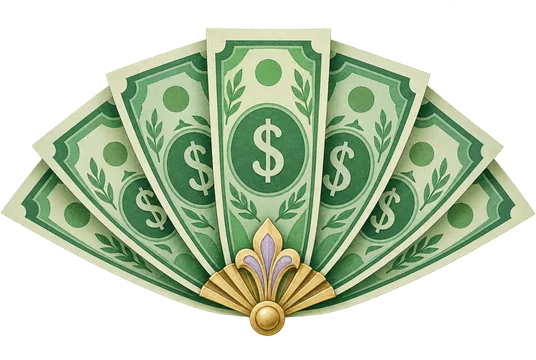
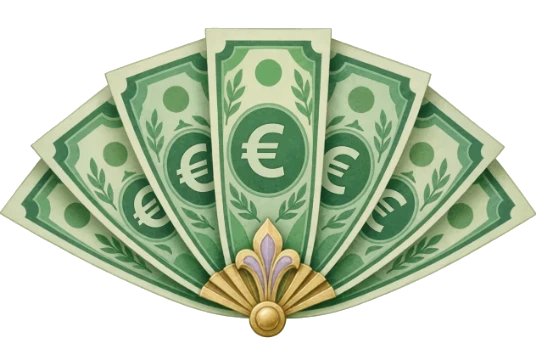
Accueil et Congés : priorité à Mise en route sur le CET et illustrations sombres / Mécénats en euros
- Accueil : tant que Mise en route est ouverte, le rappel CET se replie en bandeau compact (.cet-ticker) et se redéplie automatiquement une fois la mise en route terminée ou écartée.
- Congés (mode sombre) : retrait du fond beige #f3ede6 sur .leave-tool-illustration afin que les trois illustrations détourées se fondent dans les tuiles sombres.
- Mécénats : remplacement des billets en dollars par des billets en euros sur leave-tool-mecenat.webp (détourage transparent, 41,2 -> 32,8 Ko).
- Tests unitaires (1 402 réussis), E2E (ordinateur, mobile, iPhone), build et budgets JS/CSS validés.

diff --git a/e2e/app.spec.ts b/e2e/app.spec.ts
@@ -8086,6 +8086,8 @@ test("en mode sombre, les mois qui comptent pour le fractionnement se détachent
   // Avant, le fond des mois qui comptent se confondait avec la carte (1,1).
   expect(contrasts.fill).toBeGreaterThan(1.8);
   expect(contrasts.text).toBeGreaterThan(4.5);
+  // Les illustrations détourées des outils Congés ne gardent plus d'encadré beige clair en sombre.
+  expect(await page.locator(".leave-tool-illustration").evaluateAll((frames) => frames.every((frame) => getComputedStyle(frame).backgroundColor === "rgba(0, 0, 0, 0)"))).toBe(true);
 });
 
 test("en mode sombre, la frise, les dimanches et la date des notes gardent leur couleur", async ({ page }, testInfo) => {
@@ -8419,8 +8421,15 @@ test("un férié travaillé propose prime seule, prime + récup ou un échange a
 /** Le profil d'un agent qui a posé 20 CA en 2026 et suit son CET (solde de
  *  5 jours), ne l'a pas encore renseigné (`withAccount` à faux), ou a répondu
  *  « Je n'ai pas de CET » ("declined"). */
+function dismissHomeSetup(page: Page) {
+  return page.addInitScript(() => {
+    localStorage.setItem("planning:setup-dismissed-v1:demo", JSON.stringify(["planning-group", "pay-profile", "holiday-choice", "payslip-upload"]));
+  });
+}
+
 function seedCetProfile(page: Page, withAccount: boolean | "declined" = true) {
   return page.addInitScript((account) => {
+    localStorage.setItem("planning:setup-dismissed-v1:demo", JSON.stringify(["planning-group", "pay-profile", "holiday-choice", "payslip-upload"]));
     localStorage.setItem("planning:e2e-pay-profile", JSON.stringify({
       fullName: "",
       group: "2",
@@ -8433,6 +8442,7 @@ function seedCetProfile(page: Page, withAccount: boolean | "declined" = true) {
 
 test("l’application restée ouverte depuis la veille montre le rappel du CET dès minuit le 15 novembre", async ({ page }) => {
   await page.clock.install({ time: new Date("2026-11-14T23:58:00") });
+  await dismissHomeSetup(page);
   await prepareDemo(page);
   await expect(page.getByRole("heading", { name: "Aujourd’hui" })).toBeVisible();
   const reminder = page.getByRole("complementary", { name: "Avez-vous un CET ?" });
@@ -8558,6 +8568,7 @@ test("« Oui » touché juste après un rendu de l’appli donne quand même la 
 
 test("en fin d’année, un CET non renseigné reste rappelé jusqu’à « Non », qui le fait taire pour l’année", async ({ page }) => {
   await page.clock.setFixedTime(new Date("2026-12-27T10:00:00"));
+  await dismissHomeSetup(page);
   await prepareDemo(page);
   const reminder = page.getByRole("complementary", { name: "Avez-vous un CET ?" });
   await expect(reminder.locator(".step-label.urgent")).toHaveText("CET · plus que 5 jours");
@@ -8623,6 +8634,30 @@ test("sans CET, l’accueil repose la question chaque année et mène à la dema
   await page.clock.setFixedTime(new Date("2027-11-20T10:00:00"));
   await page.reload();
   await expect(reminder.getByRole("button", { name: "Demander l’ouverture" })).toBeVisible();
+});
+
+test("quand la mise en route est ouverte sur l’accueil, elle reste déployée et le rappel du CET se replie en bandeau", async ({ page }) => {
+  await page.clock.setFixedTime(new Date("2026-11-20T10:00:00"));
+  await prepareDemo(page);
+  const setup = page.locator(".home-setup-checklist");
+  await expect(setup.getByRole("heading", { name: "Mise en route" })).toBeVisible();
+  const ribbon = page.locator(".cet-ticker");
+  const reminder = page.getByRole("complementary", { name: "Avez-vous un CET ?" });
+  await expect(ribbon).toBeVisible();
+  await expect(reminder).toHaveCount(0);
+  // Toucher le bandeau déplie la carte du CET pour cette visite.
+  await ribbon.click();
+  await expect(reminder).toBeVisible();
+  await expect(reminder.getByRole("button", { name: "Oui", exact: true })).toBeFocused();
+  // Une fois la mise en route écartée, le rappel du CET se déploie tout seul.
+  await page.reload();
+  await expect(ribbon).toBeVisible();
+  for (let i = 0; i < 4 && (await setup.count()) > 0; i++) {
+    await setup.locator(".home-setup-skip").click();
+  }
+  await expect(setup).toHaveCount(0);
+  await expect(reminder).toBeVisible();
+  await expect(ribbon).toHaveCount(0);
 });
 
 test("l’accueil annonce une exposition la veille de son ouverture, puis une semaine avant sa fin", async ({ page }) => {

diff --git a/src/CetWindowReminder.tsx b/src/CetWindowReminder.tsx
@@ -131,6 +131,8 @@ type Props = {
   /** Enregistre le compte d'après le solde du relevé RH ; vrai une fois fait. */
   onSaveBalance: (initialBalance: number, legacyCap70: boolean) => Promise<boolean>;
   onNoCet: () => void;
+  /** Replié en bandeau tant que « Mise en route » reste ouverte sur l'accueil. */
+  defer?: boolean;
 };
 
 const STEPS = ["Votre CET", "Son solde", "Demande"] as const;
@@ -160,7 +162,7 @@ function CetJourney({ step }: { step: number }) {
  * solde du relevé RH sans quitter l'accueil ; ensuite, ce qui peut être versé,
  * ou les CA qui manquent. « Plus tard », en haut, replie la carte en bandeau.
  */
-export function CetWindowReminder({ todayKey, account, periods, group, manualAdjustments, onPrepare, onOpenCet, onRequestOpening, onRequestLeave, onSaveBalance, onNoCet }: Props) {
+export function CetWindowReminder({ todayKey, account, periods, group, manualAdjustments, onPrepare, onOpenCet, onRequestOpening, onRequestLeave, onSaveBalance, onNoCet, defer = false }: Props) {
   const [foldedOn, setFoldedOn] = useState(readFolded);
   // Le bandeau touché redéplie la carte pour la visite, sans oublier le repli.
   const [unfolded, setUnfolded] = useState(false);
@@ -185,7 +187,7 @@ export function CetWindowReminder({ todayKey, account, periods, group, manualAdj
   const ribbonRef = useRef<HTMLButtonElement>(null);
   const goRef = useRef<HTMLButtonElement>(null);
   const balanceRef = useRef<HTMLInputElement>(null);
-  const folded = !unfolded && cetReminderFolded(foldedOn, todayKey);
+  const folded = !unfolded && (defer || cetReminderFolded(foldedOn, todayKey));
   useEffect(() => {
     if (!focusNext) return;
     const target = focusNext === "ribbon" ? ribbonRef.current : focusNext === "balance" ? balanceRef.current : goRef.current;

diff --git a/src/App.tsx b/src/App.tsx
@@ -537,6 +537,9 @@ export default function Home() {
   // que rien n'a été confirmé, ce ne sont que des valeurs de repli.
   const missingCalculationProfile = !formProfile?.status || !formProfile?.workQuota;
   const missingHolidayChoices = currentYearPay ? allowances?.holidayPending ?? 0 : 0;
+  // Quand « Mise en route » est ouverte sur l'accueil, le rappel du CET se
+  // replie en bandeau pour lui laisser la place.
+  const [setupOpen, setSetupOpen] = useState(false);
 
   const showCalendarWorkspace =
     homeSection === "home" ||
@@ -942,6 +945,7 @@ export default function Home() {
         showSuccess={confirm}
         help={{ openPlanningPdf: () => setPdfDialogOpen(true), openBlankForm, requestLeave: () => { openRequestChooser("planning"); requestFromHelp.current = true; }, openExchange: () => openWorkExchange() }}
         actions={{ navigateFromShell, checkForAppUpdate, disconnect, saveCetAccount, saveExpoNoticesSeen }}
+        setupOpen={setupOpen}
       />
 
       {feedbackMessaging.resolutionNotice ? (
@@ -1005,6 +1009,7 @@ export default function Home() {
           ownNoteAuthorLabel={ownNoteAuthorLabel}
           overview={{ ...workedDaysOverview, totalLeaveRemaining, leaveYear: absenceYear, upcoming, hasAnyNote, noteSearchResults }}
           setup={{ missingCalculationProfile, missingHolidayChoices, missingPayValues }}
+          onSetupChange={setSetupOpen}
           shell={appShellUi}
           pay={payUi}
           actions={{ setView, openDay, beginQuickNote, deleteMultiplePlanningDates, deleteAgnesNote }}

diff --git a/src/HomeDashboard.tsx b/src/HomeDashboard.tsx
@@ -1,4 +1,4 @@
-import { useState, type CSSProperties, type Dispatch, type ReactNode, type SetStateAction } from "react";
+import { useEffect, useState, type CSSProperties, type Dispatch, type ReactNode, type SetStateAction } from "react";
 import { noteLines, type NoteListItem } from "./appModel";
 import { NotesPanelContent } from "./PlanningView";
 import "./sharedNotes.css";
@@ -81,6 +81,7 @@ type HomeDashboardProps = {
   nextExtraWork: { kind: "mecenat" | "overtime"; date: string; start: string; end: string } | null;
   setupItems: HomeSetupItem[];
   setupDismissKey: string;
+  onSetupChange?: (open: boolean) => void;
   hasAnyNote: boolean;
   noteQuery: string;
   onNoteQueryChange: Dispatch<SetStateAction<string>>;
@@ -103,6 +104,7 @@ export function HomeDashboard({
   nextExtraWork,
   setupItems,
   setupDismissKey,
+  onSetupChange,
   hasAnyNote,
   noteQuery,
   onNoteQueryChange,
@@ -141,6 +143,7 @@ export function HomeDashboard({
   const skippedSetup = (item: HomeSetupItem) => !item.done && dismissedSetupItems.includes(item.id);
   const setupHandled = setupItems.filter((item) => item.done || skippedSetup(item)).length;
   const setupVisible = setupHandled < setupItems.length;
+  useEffect(() => { onSetupChange?.(setupVisible); }, [setupVisible, onSetupChange]);
   const [selectedSetup, setSelectedSetup] = useState<string | null>(null);
   const setupCurrent = setupItems.find((item) => item.id === selectedSetup && !item.done)
     ?? setupItems.find((item) => !item.done && !skippedSetup(item));

diff --git a/src/AppShellChrome.tsx b/src/AppShellChrome.tsx
@@ -80,6 +80,8 @@ type Props = {
     & Pick<ReturnType<typeof useShellEffects>, "checkForAppUpdate">
     & Pick<ReturnType<typeof useAuthenticationActions>, "disconnect">
     & Pick<ReturnType<typeof useProfileAdjustmentActions>, "saveCetAccount" | "saveExpoNoticesSeen">;
+  /** Vrai tant que la carte « Mise en route » reste ouverte sur l'accueil. */
+  setupOpen?: boolean;
 };
 
 /**
@@ -90,7 +92,7 @@ type Props = {
  */
 export function AppShellChrome({
   now, group, demoMode, userEmail, isProgramAdmin, actualProgramAdmin, programAdminKnown,
-  admin, installation, shell, pay, calendar, allowanceValues, feedbackMessaging, notify, showSuccess, help, actions,
+  admin, installation, shell, pay, calendar, allowanceValues, feedbackMessaging, notify, showSuccess, help, actions, setupOpen = false,
 }: Props) {
   const { guestPreview, setGuestPreview, adminToolsOpen, setAdminToolsOpen, setAdminRevision } = admin;
   const { enabled: installationEnabled, installPrompt, installApp } = installation;
@@ -352,6 +354,7 @@ export function AppShellChrome({
         periods={periods}
         group={group}
         manualAdjustments={formProfile?.manualAdjustments}
+        defer={setupOpen}
         onPrepare={() => openCet("cet-funding")}
         onOpenCet={() => openCet("cet")}
         onRequestOpening={() => openCet("cet-opening")}

diff --git a/src/HomeSectionScreen.tsx b/src/HomeSectionScreen.tsx
@@ -42,6 +42,7 @@ type Props = {
     missingHolidayChoices: number;
     missingPayValues: boolean;
   };
+  onSetupChange?: (open: boolean) => void;
   shell: Pick<
     ReturnType<typeof useAppShellUiState>,
     "noteQuery" | "setNoteQuery" | "setHomeSection" | "setGroupChooserOpen"
@@ -63,7 +64,7 @@ type Props = {
  */
 export function HomeSectionScreen({
   now, group, demoMode, userEmail, isProgramAdmin, formProfile, entries, ownNoteAuthorLabel,
-  overview, setup, shell, pay, actions,
+  overview, setup, onSetupChange, shell, pay, actions,
 }: Props) {
   const { setHomeSection, setGroupChooserOpen } = shell;
   const { setPayScreen } = pay;
@@ -80,6 +81,7 @@ export function HomeSectionScreen({
           leaveYear={overview.leaveYear}
           nextExtraWork={overview.nextExtraWork}
           setupDismissKey={`planning:setup-dismissed-v1:${demoMode ? "demo" : userEmail.trim().toLowerCase()}`}
+          onSetupChange={onSetupChange}
           setupItems={[
             {
               id: "planning-group",

diff --git a/src/CetWindowReminder.test.tsx b/src/CetWindowReminder.test.tsx
@@ -151,5 +151,17 @@ describe("le rappel de l'alimentation du CET sur l'accueil", () => {
       vi.stubGlobal("localStorage", { getItem: () => "2026-11-18", setItem: vi.fn() });
       expect(render("2026-12-27", tracked())).toContain("Vous pouvez verser jusqu’à 20 jours</h2>");
     });
+
+    it("se replie aussi en bandeau tant que « Mise en route » est ouverte sur l'accueil", () => {
+      const html = renderToStaticMarkup(
+        <CetWindowReminder todayKey="2026-11-20" account={undefined} periods={[]} group={2} manualAdjustments={used(0)} defer {...handlers} />,
+      );
+      expect(html).not.toContain("cet-window-reminder");
+      expect(html).toContain('class="cet-ticker"');
+      const urgent = renderToStaticMarkup(
+        <CetWindowReminder todayKey="2026-12-27" account={tracked()} periods={[]} group={2} manualAdjustments={used(20)} defer {...handlers} />,
+      );
+      expect(urgent).toContain('class="cet-ticker urgent"');
+    });
   });
 });

diff --git a/src/darkTheme.css b/src/darkTheme.css
@@ -83,8 +83,8 @@ html[data-theme="dark"] .grand-palais-view-tools .grand-palais-view-picker butto
 html[data-theme="dark"] .grand-palais-view-tools .grand-palais-view-picker button:not(.active) svg { color: color-mix(in srgb, var(--tab) 55%, #fff); }
 html[data-theme="dark"] :is(.expo-price-group, .grand-palais-interexpo-open li b) { color: color-mix(in srgb, var(--venue-accent, #c9754f) 50%, #fff); }
 
-/* Les illustrations dessinées sur fond clair gardent leur fond, sans éblouir. */
-html[data-theme="dark"] .leave-tool-illustration { background: #f3ede6; filter: brightness(.88); }
+/* Les illustrations détourées se posent sur le fond sombre de leur tuile. */
+html[data-theme="dark"] .leave-tool-illustration { background: transparent; filter: brightness(.92); }
 
 /* Le dock se détache du fond : capsule un peu plus claire, rubrique ouverte en crème. */
 html[data-theme="dark"] .section-dock { border-color: rgba(255, 255, 255, .14); background: #2b2420; }

diff --git a/CARTE_DU_PROJET.md b/CARTE_DU_PROJET.md
@@ -98,7 +98,10 @@ Cette carte sert à trouver le bon fichier sans relire toute l'application.
   par des losanges, et un filet en bas qui avance du 15 novembre au
   31 décembre (`cetWindowElapsed`) ; orangés la dernière semaine. Sur
   l’appareil seulement : elle le reste les jours suivants et ne se redéplie
-  d’elle-même que le 24 décembre ; touché, le bandeau la redéplie. Le
+  d’elle-même que le 24 décembre ; touché, le bandeau la redéplie. Tant que
+  « Mise en route » reste ouverte sur l’accueil (`defer={setupOpen}`), la carte
+  se replie aussi en bandeau pour lui laisser la place et se redéplie dès
+  qu’elle se ferme. Le
   défilement s’arrête sous le doigt, la souris ou le clavier, et pas du tout
   avec « réduire les animations ». « Préparer ma demande » ouvre Congés › Mon CET avec le
   formulaire d’alimentation (cible `cet-funding` de `helpTargets.ts` :
